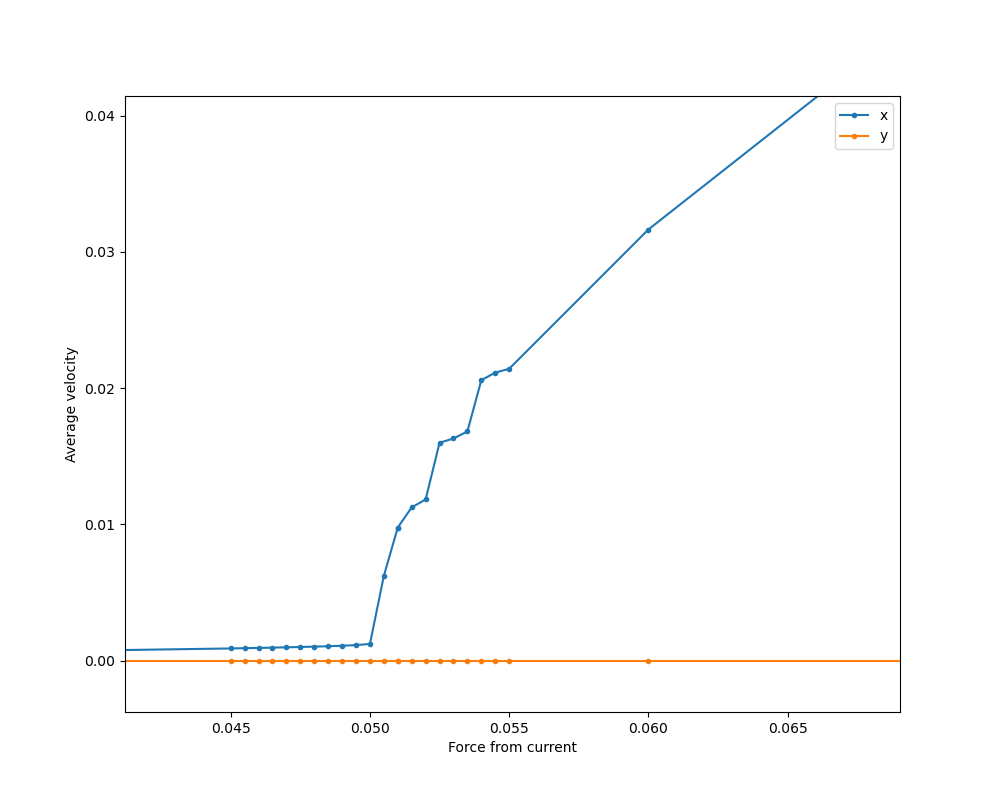
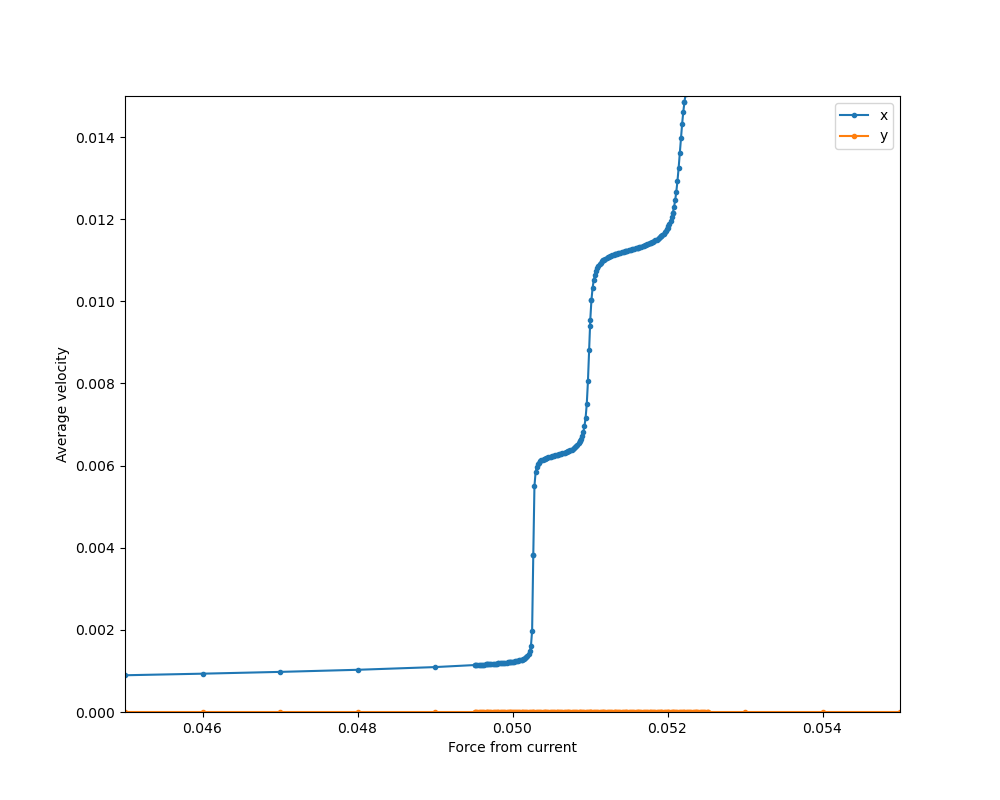
Added/improved figures

diff --git a/code/channel_simulation.py b/code/channel_simulation.py
@@ -11,10 +11,10 @@ from abc import ABC, abstractmethod
 
 # Default values
 PINNED_DEPTH = 4
-CHANNEL_LENGTH = 1
+CHANNEL_LENGTH = 10
 T_MAX = 200
 T_STEPS = 1e4
-REPEATS = 0
+REPEATS = 1
 CUTOFF = 9
 ANALYTIC_TERMS = 1
 
@@ -171,7 +171,7 @@ def current_channel():
     width = 1
     force = 0.1
     
-    result = get_channel_result(width, force, ChannelSimulation, PINNED_DEPTH)
+    result = get_channel_result(width, force, ChannelSimulation, (PINNED_DEPTH,), force_sim=True)
     
     animator = ChannelSimAnimator()
     animator.animate(result, f'current_channel_{width}w.gif', 10)
@@ -310,7 +310,7 @@ if __name__ == '__main__':
     # plot_vels(np.arange(0, 0.1, 0.001), _width, ChannelSimulation, (PINNED_DEPTH,))
     plot_vels(np.arange(0, 0.1, 0.001), _width, AnalyticChannelSimulation, (ANALYTIC_TERMS,))
     
-    force_vals = np.linspace(ANALYTICAL_FC*0.99/_width, ANALYTICAL_FC*1.05/_width, 21)
+    force_vals = np.linspace(ANALYTICAL_FC*0.99/_width, ANALYTICAL_FC*1.05/_width, 201)
     # plot_vels(force_vals, _width, ChannelSimulation, (PINNED_DEPTH,)) # type: ignore
     force_vals = np.linspace(ANALYTICAL_FC*0.9/_width, ANALYTICAL_FC*1.1/_width, 201)
     plot_vels(force_vals, _width, AnalyticChannelSimulation, (ANALYTIC_TERMS,)) # type: ignore

diff --git a/code/simulation.py b/code/simulation.py
@@ -227,14 +227,18 @@ class SimAnimator:
         return self._dots
     
 def ground_state():
-    sim = Simulation(2, 2, 6, 6)
+    images = 8
+    sim = Simulation(2, 2, images, images)
     
     sim.add_triangular_lattice((0, 0), 2, 2)
     
     result = sim.run_sim(0.2, 0.0001, 0)
     
-    animator = SimAnimator()
-    animator.animate(result, 'groundstate.gif', 10)
+    print(images)
+    print(np.mean(np.linalg.norm(result.values[-1] - result.values[0], axis=1)))
+    
+    # animator = SimAnimator()
+    # animator.animate(result, 'groundstate.gif', 10)
     
 def ground_state_from_rand():
     sim = Simulation(2, 2, 6, 6)
@@ -258,6 +262,6 @@ def many_vortices():
     animator.animate(result, 'lots.gif')
     
 if __name__ == '__main__':
-    # ground_state()
-    ground_state_from_rand()
+    ground_state()
+    # ground_state_from_rand()
     # many_vortices()
